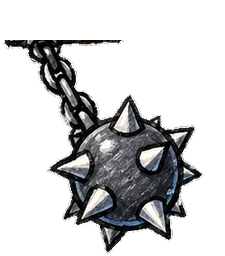
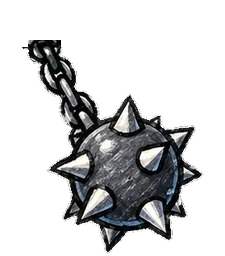
Mace: erase the stray beam strip baked into the swing art; scale it down to one cell

Changed region(s): [[0.2489, 0.1562, 0.56, 0.1875], [0.0, 0.1562, 0.1244, 0.1875]]

diff --git a/src/client/game/constants.ts b/src/client/game/constants.ts
@@ -137,12 +137,12 @@ export const ZAPPER_HITBOX_PX = 32;
 export const ZAPPER_PERIOD_MS = 3000;
 export const ZAPPER_ON_FRACTION = 0.5;
 // Swinging Mace: the beam's bolt sits near the top of its placed cell and
-// the ball swings below it, through roughly the next two cells down.
-export const MACE_ART_SCALE = 0.55;
-export const MACE_PIVOT_INSET_PX = 14;
+// the ball (about one cell wide) swings below it, through the next cell down.
+export const MACE_ART_SCALE = 0.38;
+export const MACE_PIVOT_INSET_PX = 10;
 export const MACE_SWING_DEG = 60;
 export const MACE_PERIOD_MS = 2200;
-export const MACE_HITBOX_PX = 40;
+export const MACE_HITBOX_PX = 28;
 // Crusher: sits on its surface, lifts up, hangs there, then slams down.
 export const CRUSHER_DISPLAY_HEIGHT_PX = 70;
 export const CRUSHER_HITBOX_WIDTH_PX = 52;
